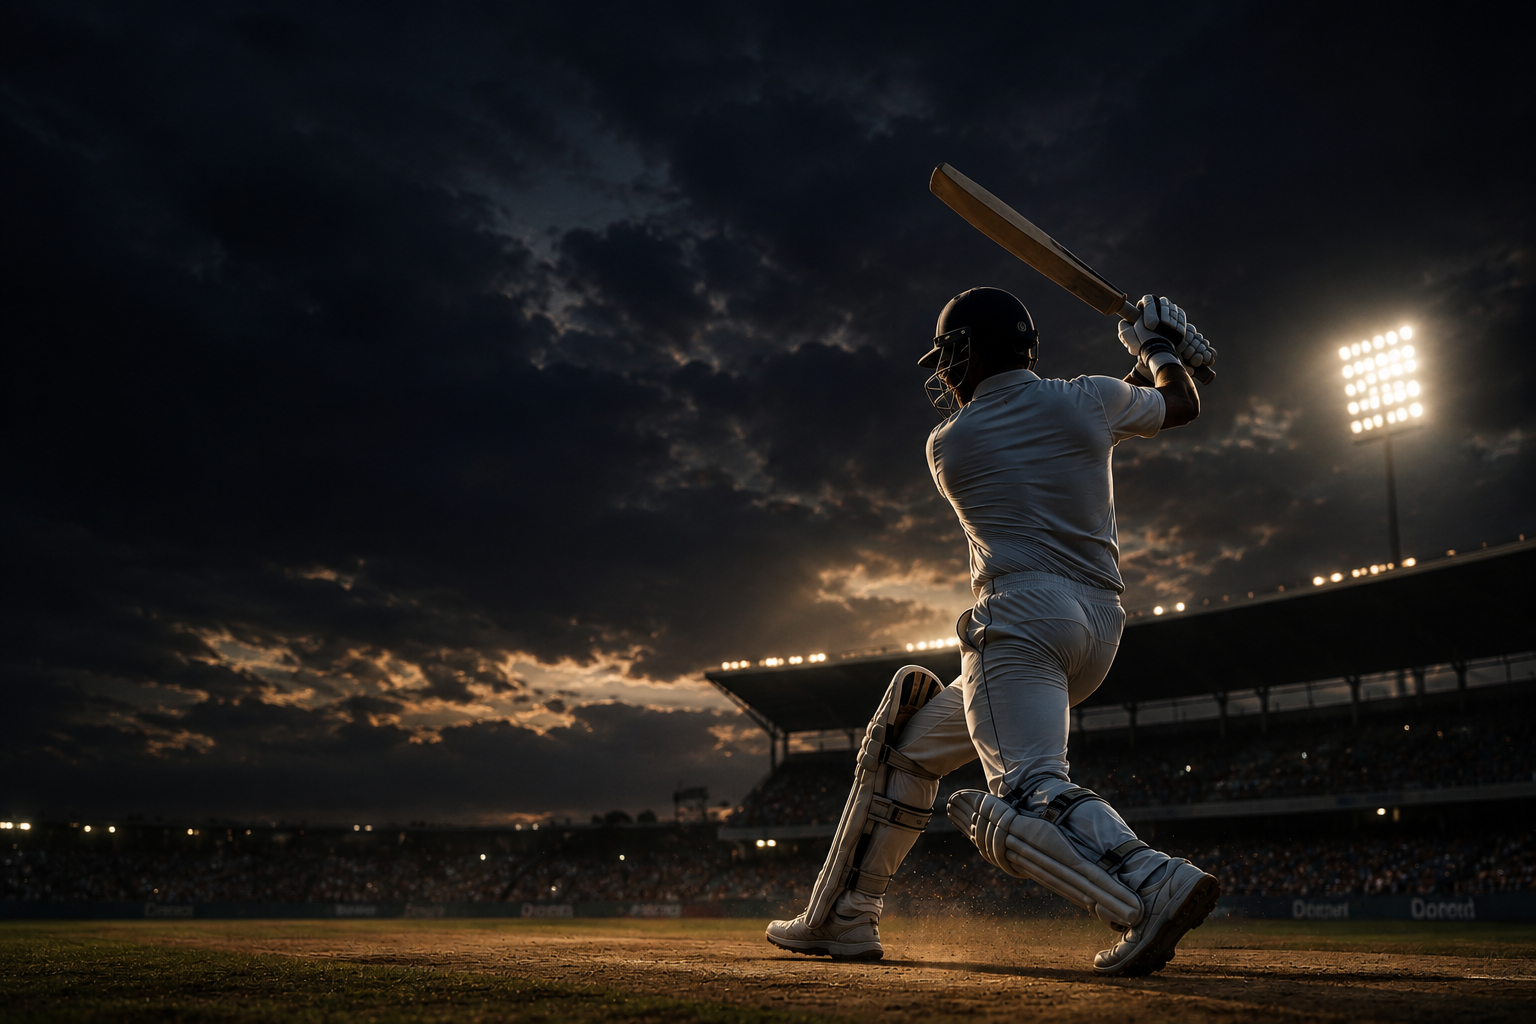
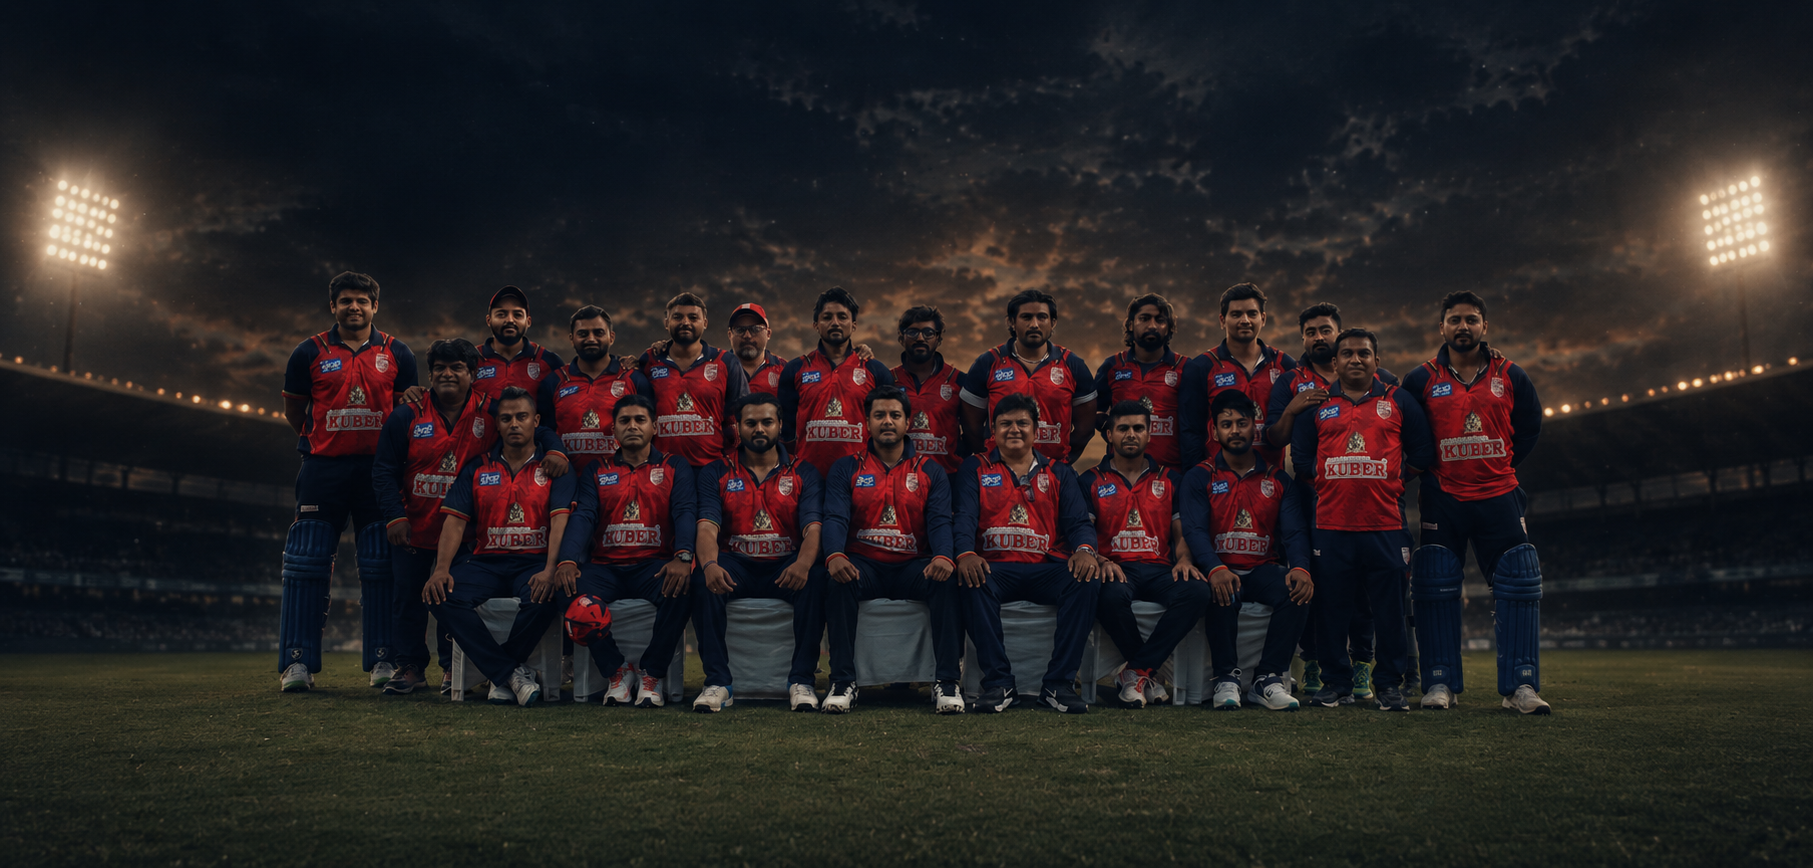
feat: update head coach and hero images, reorder roster, add LinkedIn links

diff --git a/src/data/site-data.ts b/src/data/site-data.ts
@@ -45,6 +45,7 @@ export const CONTACT = {
   instagramUrl: "https://www.instagram.com/bengaltigers.ccl",
   instagramHandle: "@bengaltigers.ccl",
   facebookUrl: "https://www.facebook.com/share/1HRtoBdhDM/?mibextid=wwXIfr",
+  linkedinUrl: "https://www.linkedin.com/company/bengal-tigers-ccl/",
 };
 
 export const OWNERS = [
@@ -107,16 +108,16 @@ export const HEAD_COACH: Player = {
 
 export const PLAYERS: Player[] = [
   { id: "player-5", name: "Jishu Sengupta", jerseyNumber: 1, image: playerJishuSengupta, role: "Captain" },
-  { id: "player-4", name: "Saurav Das", jerseyNumber: 2, image: playerSauravDas, role: "Wicket-Keeper" },
   { id: "player-3", name: "Bonny Sengupta", jerseyNumber: 3, image: playerBonnySengupta, role: "Batter", battingStyle: "RHB" },
+  { id: "player-4", name: "Saurav Das", jerseyNumber: 2, image: playerSauravDas, role: "Wicket-Keeper" },
+  { id: "player-10", name: "Joy Mukherjee", jerseyNumber: 10, image: playerJoyMukherjee, role: "All-Rounder", battingStyle: "RHB", bowlingStyle: "RAO" },
   { id: "player-1", name: "Uday Pratap Singh", jerseyNumber: 4, image: playerUdayPratapSingh, role: "All-Rounder", battingStyle: "RHB", bowlingStyle: "RAM" },
-  { id: "player-2", name: "Anirban Chakraborty", jerseyNumber: 5, image: playerAnirbanChakraborty, role: "All-Rounder", battingStyle: "LHB", bowlingStyle: "RAM" },
+  { id: "player-9", name: "Rahul Mazumdar", jerseyNumber: 9, image: playerRahulMazumdar, role: "All-Rounder", battingStyle: "RHB", bowlingStyle: "RAM" },
+  { id: "player-11", name: "Jammy Banerjee", jerseyNumber: 11, image: playerJammyBanerjee, role: "All-Rounder", battingStyle: "RHB", bowlingStyle: "RAM" },
+  { id: "player-8", name: "Joey Deb Roy", jerseyNumber: 8, image: playerJoeyDebRoy, role: "Batter", battingStyle: "RHB" },
   { id: "player-6", name: "Ananda Choudhuri", jerseyNumber: 6, image: playerAnandaChoudhuri, role: "All-Rounder", battingStyle: "RHB", bowlingStyle: "RAO" },
   { id: "player-7", name: "Ratnadeep Ghosh", jerseyNumber: 7, image: playerRatnadeepGhosh, role: "All-Rounder", battingStyle: "RHB", bowlingStyle: "RAL" },
-  { id: "player-8", name: "Joey Deb Roy", jerseyNumber: 8, image: playerJoeyDebRoy, role: "Batter", battingStyle: "RHB" },
-  { id: "player-9", name: "Rahul Mazumdar", jerseyNumber: 9, image: playerRahulMazumdar, role: "All-Rounder", battingStyle: "RHB", bowlingStyle: "RAM" },
-  { id: "player-10", name: "Joy Mukherjee", jerseyNumber: 10, image: playerJoyMukherjee, role: "All-Rounder", battingStyle: "RHB", bowlingStyle: "RAO" },
-  { id: "player-11", name: "Jammy Banerjee", jerseyNumber: 11, image: playerJammyBanerjee, role: "All-Rounder", battingStyle: "RHB", bowlingStyle: "RAM" },
+  { id: "player-2", name: "Anirban Chakraborty", jerseyNumber: 5, image: playerAnirbanChakraborty, role: "All-Rounder", battingStyle: "LHB", bowlingStyle: "RAM" },
 ];
 
 export const ROSTER: Player[] = PLAYERS;

diff --git a/src/components/navbar.tsx b/src/components/navbar.tsx
@@ -1,13 +1,14 @@
 "use client";
 
 import * as React from "react";
-import { Menu, X, Facebook, Instagram } from "lucide-react";
+import { Menu, X, Facebook, Instagram, Linkedin } from "lucide-react";
 import { cn } from "@/lib/utils";
 import logo from "@/assets/bengal-tigers-logo.svg";
 
 const INSTAGRAM_URL = "https://www.instagram.com/bengaltigers.ccl";
 const FACEBOOK_URL =
   "https://www.facebook.com/share/1HRtoBdhDM/?mibextid=wwXIfr";
+const LINKEDIN_URL = "https://www.linkedin.com/company/bengal-tigers-ccl/";
 
 const NAV_LINKS = [
   { label: "Home", href: "#top" },
@@ -87,6 +88,15 @@ export const Navbar: React.FC = () => {
           >
             <Instagram className="h-[18px] w-[18px]" />
           </a>
+          <a
+            href={LINKEDIN_URL}
+            target="_blank"
+            rel="noreferrer"
+            aria-label="Bengal Tigers on LinkedIn"
+            className="hidden text-mist transition-colors hover:text-white sm:inline-flex"
+          >
+            <Linkedin className="h-[18px] w-[18px]" />
+          </a>
 
           <button
             className="text-white lg:hidden"
@@ -130,6 +140,15 @@ export const Navbar: React.FC = () => {
                 className="text-mist transition-colors hover:text-white"
               >
                 <Instagram className="h-5 w-5" />
+              </a>
+              <a
+                href={LINKEDIN_URL}
+                target="_blank"
+                rel="noreferrer"
+                aria-label="Bengal Tigers on LinkedIn"
+                className="text-mist transition-colors hover:text-white"
+              >
+                <Linkedin className="h-5 w-5" />
               </a>
             </li>
           </ul>

diff --git a/src/components/sections/site-footer.tsx b/src/components/sections/site-footer.tsx
@@ -1,5 +1,5 @@
 import * as React from "react";
-import { MapPin, Phone, Facebook, Instagram } from "lucide-react";
+import { MapPin, Phone, Facebook, Instagram, Linkedin } from "lucide-react";
 
 import { CONTACT, NAV_FOOTER_LINKS, bengalTigersLogo } from "@/data/site-data";
 
@@ -74,6 +74,15 @@ export function SiteFooter() {
                 className="flex h-10 w-10 items-center justify-center rounded-full border border-line bg-navy-panel text-mist hover:border-crimson/50 hover:text-white"
               >
                 <Instagram className="h-4 w-4" />
+              </a>
+              <a
+                href={CONTACT.linkedinUrl}
+                target="_blank"
+                rel="noreferrer"
+                aria-label="LinkedIn"
+                className="flex h-10 w-10 items-center justify-center rounded-full border border-line bg-navy-panel text-mist hover:border-crimson/50 hover:text-white"
+              >
+                <Linkedin className="h-4 w-4" />
               </a>
             </div>
           </div>
